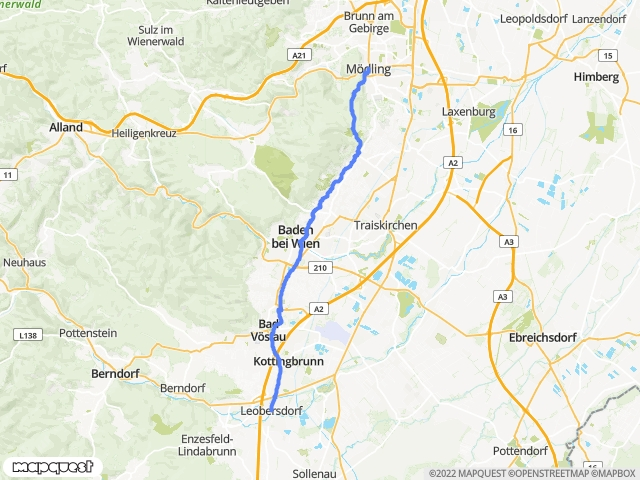
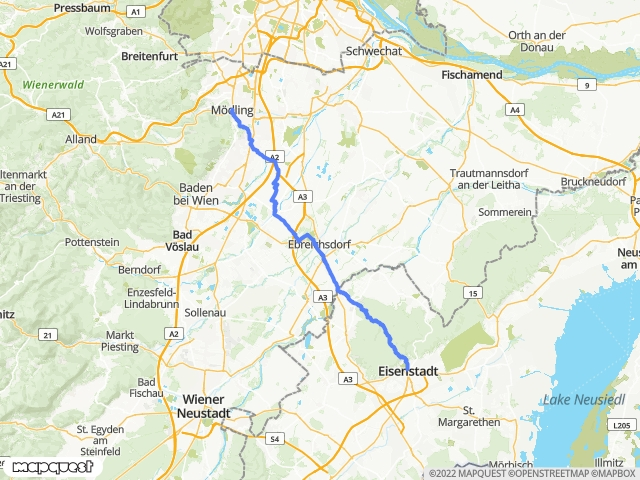
Fix edit Tour image problems

diff --git a/TourPlanner.BusinessLayer/TourGetter.cs b/TourPlanner.BusinessLayer/TourGetter.cs
@@ -4,6 +4,7 @@ using System.IO;
 using System.Linq;
 using System.Text;
 using System.Threading.Tasks;
+using System.Windows.Media.Imaging;
 using TourPlanner.DataAccessLayer;
 using TourPlanner.Models;
 
@@ -35,11 +36,28 @@ namespace TourPlanner.BusinessLayer
             return tours;
         }
 
-        public string getPicture(int ID)
+        public BitmapImage getPicture(int ID)
         {
-            string pictureString = Path.GetFullPath("../../../../Pictures/TourID" + ID + ".png");
+            string pictureString;
+            string path = "../../../../Pictures/TourID" + ID + ".png";
 
-            return pictureString;
+            if (File.Exists(path))
+            {
+                pictureString = path;
+            }
+            else
+            {
+                pictureString = "../../../../Pictures/filler.png";
+            }
+
+            BitmapImage image = new BitmapImage();
+            image.BeginInit();
+            image.CacheOption = BitmapCacheOption.OnLoad;
+            image.CreateOptions = BitmapCreateOptions.IgnoreImageCache;
+            image.UriSource = new Uri(Path.GetFullPath(pictureString));
+            image.EndInit();
+
+            return image;
         }
 
         public void calculateParameters(IEnumerable<Tour> tours)

diff --git a/TourPlanner_Lercher_Polley/ViewModels/TourPlannerViewModel.cs b/TourPlanner_Lercher_Polley/ViewModels/TourPlannerViewModel.cs
@@ -40,7 +40,7 @@ namespace TourPlanner_Lercher_Polley.ViewModels
         private ICommand editTourLogCommand;
         private ICommand editTourCommand;
         private string searchName;
-        private string tourPicture;
+        private BitmapImage tourPicture;
 
         public ICommand SearchCommand => searchCommand ??= new RelayCommand(Search);
         public ICommand ClearListCommand => clearListCommand ??= new RelayCommand(ClearList);
@@ -86,7 +86,7 @@ namespace TourPlanner_Lercher_Polley.ViewModels
             }
         }
 
-        public string TourPicture
+        public BitmapImage TourPicture
         {
             get { return tourPicture; }
             set 
@@ -156,9 +156,8 @@ namespace TourPlanner_Lercher_Polley.ViewModels
 
         private void editTour(object commandParameter)
         {
-             
             AddTourWindow editTourWindow = new AddTourWindow((int)currentItem.ID,currentItem.Name, currentItem.To, currentItem.From,
-                currentItem.Description, currentItem.TransportType);
+                currentItem.Description, currentItem.TransportType);            
             editTourWindow.ShowDialog();
 
             Items.Clear();

diff --git a/TourPlanner.UnitTests/UnitTests.cs b/TourPlanner.UnitTests/UnitTests.cs
@@ -51,5 +51,34 @@ namespace TourPlanner.UnitTests
             //assert
 
         }
+        public void test_export_onlyTour()
+        {
+            //check the distancePenalty function, which calculates a malus for the Child Friendliness
+
+            //arrange
+            //Tour testTour = new Tour()
+
+
+            //act
+
+
+            //assert
+
+        }
+
+        public void test_export_tourWithLogs()
+        {
+            //check the distancePenalty function, which calculates a malus for the Child Friendliness
+
+            //arrange
+            //Tour testTour = new Tour()
+
+
+            //act
+
+
+            //assert
+
+        }
     }
 }
